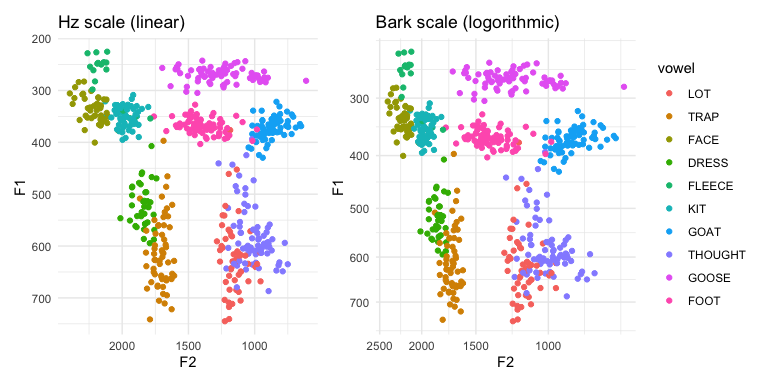
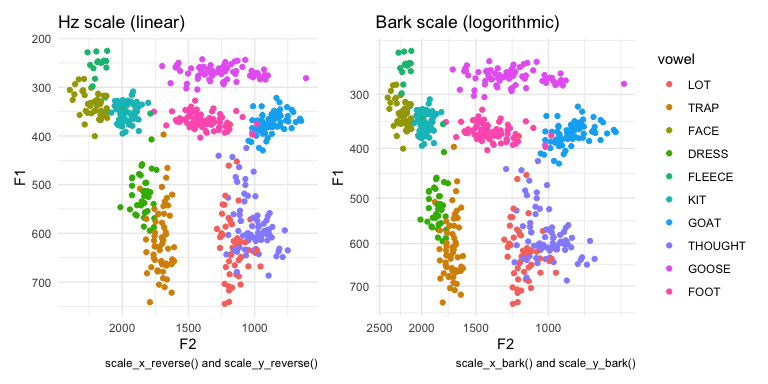
clarified readme

diff --git a/docs/index.html b/docs/index.html
@@ -100,9 +100,10 @@
 <div id="plotting-in-the-bark-scale" class="section level2">
 <h2 class="hasAnchor">
 <a href="#plotting-in-the-bark-scale" class="anchor"></a>Plotting in the Bark scale</h2>
-<p>You can use <code>scale_x_bark</code> and <code>scale_y_bark</code> within a <code>ggplot</code> to plot the data in Hz but scaled into Barks. In the following F1-F2 plot, the front of portion of the vowel space is more compressed.</p>
+<p>You can use <code>scale_x_bark</code> and <code>scale_y_bark</code> within a <code>ggplot</code> to plot the data in Hz but scaled into Barks. In the following side-by-side comparison of an F1-F2 plot, the figure on the left uses a linear scale. Meanwhile, in the figure on the right, the left and bottom portions of the plot is more compressed.</p>
 <p><img src="reference/figures/README-f1_f2_example-1.png"><!-- --></p>
-<p>In the following spectrogram plots, F1 is wider and F2 is more compressed.</p>
+<p>The plot on the right looks the same as if you had plotted the data in Barks themselves, except the axes are in Hz instead of Barks.</p>
+<p>In the following spectrogram plots, we only need to use the Bark scale along the <em>y</em>-axis. In the left panel, which displays the data in a linear scale, F2 takes up the majorty of the plot. Meanwhile, in the plot on the right, F1 is wider and F2 is more compressed.</p>
 <p><img src="reference/figures/README-spectrogram_example-1.png"><!-- --></p>
 </div>
 <div id="converting-between-barks-and-hz" class="section level2">

diff --git a/README.md b/README.md
@@ -18,13 +18,20 @@ library(ggplot2)
 ## Plotting in the Bark scale
 
 You can use `scale_x_bark` and `scale_y_bark` within a `ggplot` to plot
-the data in Hz but scaled into Barks. In the following F1-F2 plot, the
-front of portion of the vowel space is more compressed.
+the data in Hz but scaled into Barks. In the following side-by-side
+comparison of an F1-F2 plot, the figure on the left uses a linear scale.
+Meanwhile, in the figure on the right, the left and bottom portions of
+the plot is more compressed.
 
 ![](man/figures/README-f1_f2_example-1.png)<!-- -->
 
-In the following spectrogram plots, F1 is wider and F2 is more
-compressed.
+The plot on the right looks the same as if you had plotted the data in
+Barks themselves, except the axes are in Hz instead of Barks.
+
+In the following spectrogram plots, we only need to use the Bark scale
+along the *y*-axis. In the left panel, which displays the data in a
+linear scale, F2 takes up the majorty of the plot. Meanwhile, in the
+plot on the right, F1 is wider and F2 is more compressed.
 
 ![](man/figures/README-spectrogram_example-1.png)<!-- -->
 
